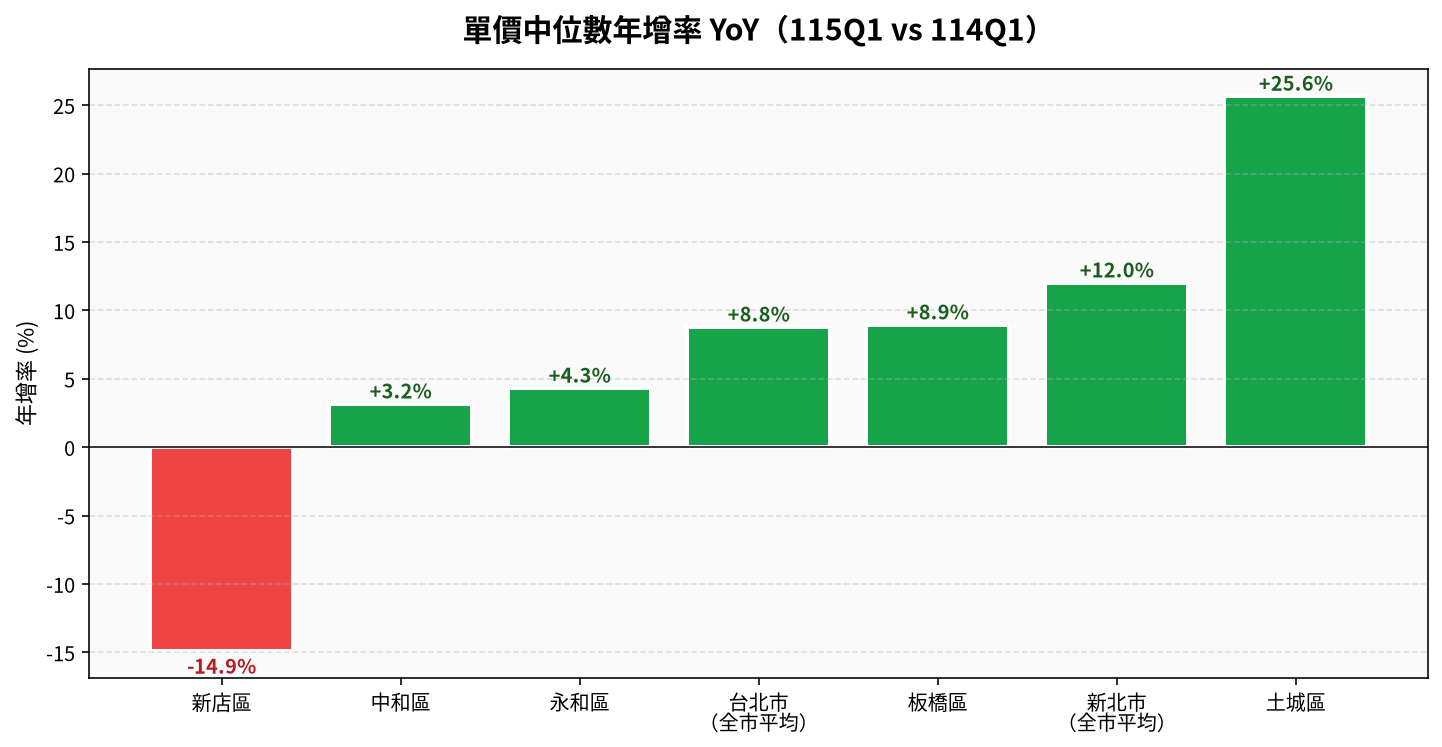
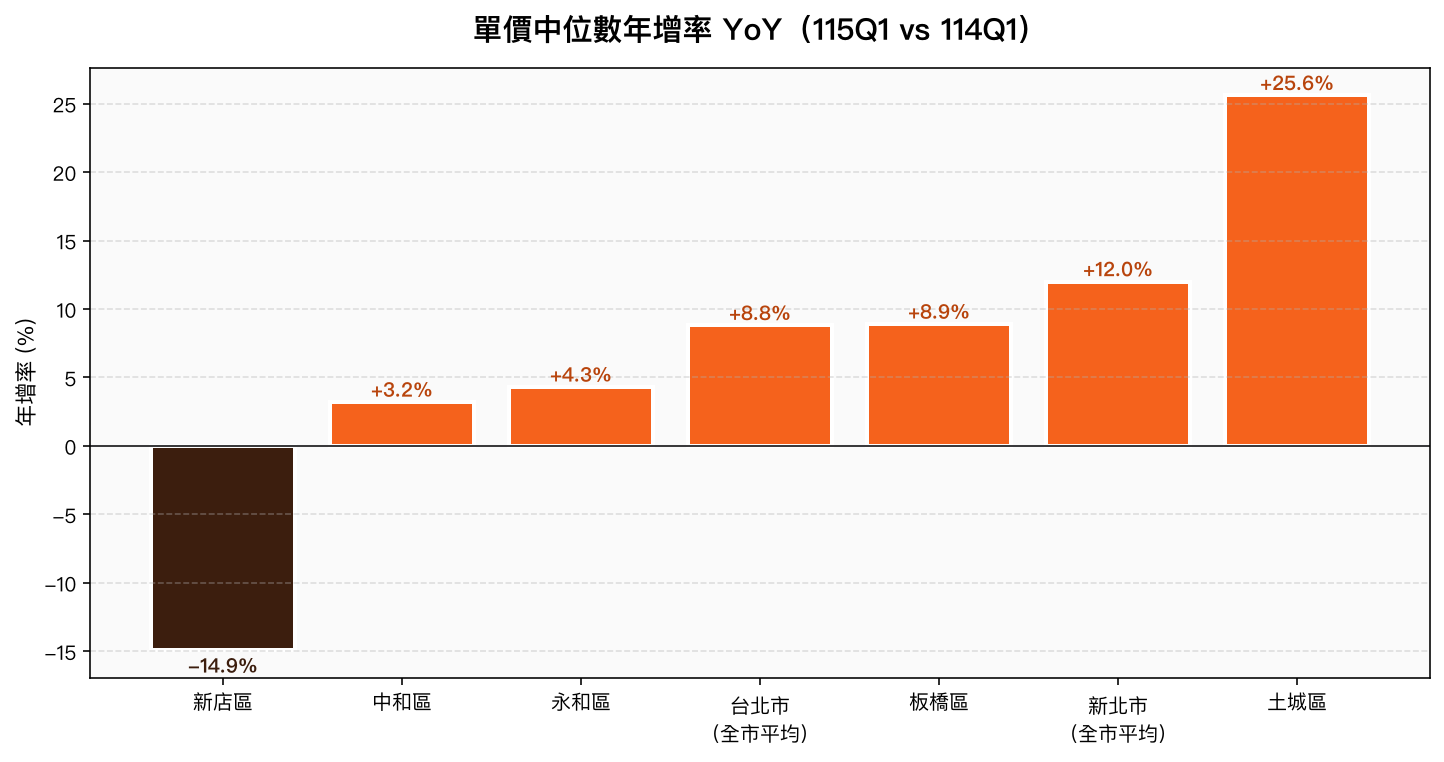
fix(uiux): lvr 年增率圖漲跌柱改米米橘／墨（去紅綠對撞），圖說同步「橘 = 上漲、深棕 = 下跌」；本機以現行 7 個標籤值 stub 重繪，下次 lvr-weekly 以真實資料重產 [nofresh]

diff --git a/lvr-observatory.html b/lvr-observatory.html
@@ -415,8 +415,8 @@ table.rank-table{width:100%;border-collapse:collapse;font-size:14px;color:var(--
   <div class="section-title">近 1 年單價變化（年增率 YoY）</div>
   <div class="chart-card">
     <h3>115Q1 vs 114Q1 單價中位數年增率</h3>
-    <p class="chart-note">綠 = 上漲、紅 = 下跌。新店 -14.9% 看數字大但需結合上方深度解析看（屋齡結構變化所致）。</p>
-    <a class="chart-zoom" href="lvr-charts/chart_yoy_change.png"><picture><source media="(max-width: 640px)" srcset="lvr-charts/chart_yoy_change_m.png" width="823" height="1183"><img src="lvr-charts/chart_yoy_change.png" alt="5 精選區與雙北平均年增率 YoY" width="1442" height="747" loading="lazy" decoding="async"></picture></a>
+    <p class="chart-note">橘 = 上漲、深棕 = 下跌。新店 -14.9% 看數字大但需結合上方深度解析看（屋齡結構變化所致）。</p>
+    <a class="chart-zoom" href="lvr-charts/chart_yoy_change.png"><picture><source media="(max-width: 640px)" srcset="lvr-charts/chart_yoy_change_m.png" width="823" height="1183"><img src="lvr-charts/chart_yoy_change.png" alt="5 精選區與雙北平均年增率 YoY" width="1444" height="762" loading="lazy" decoding="async"></picture></a>
     <p class="chart-zoom-hint">點圖看大圖</p>
   </div>
 

diff --git a/scripts/lvr/make_charts.py b/scripts/lvr/make_charts.py
@@ -57,7 +57,10 @@ def _save(fig, name: str) -> Path:
 MOBILE_W = 4.0
 MOBILE_DPI = 200
 MFS = 13
-YOY_UP, YOY_DOWN = "#16A34A", "#EF4444"  # 與頁面 KPI／排名表的漲跌色一致
+# 漲跌柱色（米米系，2026-09-29 視覺目檢第 23 列）：不用紅綠對撞，改靠明度差區分（橘 × 墨 對比 4.8，色盲也分得開）。
+# 圖檔不能用 CSS 變數，同值寫死：YOY_UP＝--cx-orange、YOY_DOWN＝--cx-ink；數字標籤上漲用 --cx-orange-deep（橘不當小字）、下跌用 --cx-ink。
+YOY_UP, YOY_DOWN = "#F5621C", "#3C1E0E"
+YOY_UP_LABEL, YOY_DOWN_LABEL = "#B8440C", "#3C1E0E"
 
 
 def _save_m(fig, name: str) -> Path:
@@ -98,7 +101,7 @@ def chart_yoy_change(df: pd.DataFrame, mobile: bool = False) -> Path:
     rows.sort(key=lambda x: x[1])
     labels = [r[0] for r in rows]
     values = [r[1] for r in rows]
-    # 柱色依正負：頁面說明「綠 = 上漲、紅 = 下跌」讀者看的是柱子。原本用區域識別色，
+    # 柱色依正負：頁面說明「橘 = 上漲、深棕 = 下跌」讀者看的是柱子。原本用區域識別色，
     # 土城 +25.6% 是紅柱、手機上會讀成下跌（2026-09-29 視覺目檢 G10-08）
     colors = [YOY_UP if v >= 0 else YOY_DOWN for v in values]
 
@@ -113,7 +116,7 @@ def chart_yoy_change(df: pd.DataFrame, mobile: bool = False) -> Path:
             ax.text(val + span * (0.02 if val >= 0 else -0.02), i, f"{val:+.1f}%",
                     ha="left" if val >= 0 else "right", va="center",
                     fontsize=MFS, fontweight="bold",
-                    color="#1B5E20" if val >= 0 else "#B71C1C")
+                    color=YOY_UP_LABEL if val >= 0 else YOY_DOWN_LABEL)
         ax.set_xlim(lo - (span * 0.55 if lo < 0 else 0), hi + (span * 0.6 if hi > 0 else 0))
         ax.axvline(0, color="#3a3a3c", linewidth=1)
         ax.set_title("單價中位數年增率 YoY\n（115Q1 vs 114Q1）",
@@ -129,7 +132,7 @@ def chart_yoy_change(df: pd.DataFrame, mobile: bool = False) -> Path:
         y = val + 0.4 if val >= 0 else val - 0.4
         ax.text(bar.get_x() + bar.get_width() / 2, y, f"{val:+.1f}%",
                 ha="center", va="baseline" if val >= 0 else "top", fontsize=10, fontweight="bold",
-                color="#1B5E20" if val >= 0 else "#B71C1C")
+                color=YOY_UP_LABEL if val >= 0 else YOY_DOWN_LABEL)
     ax.axhline(0, color="#3a3a3c", linewidth=1)
     ax.set_title("單價中位數年增率 YoY（115Q1 vs 114Q1）",
                  fontsize=15, fontweight="bold", pad=14)

diff --git a/scripts/lvr/build_observatory.py b/scripts/lvr/build_observatory.py
@@ -554,7 +554,7 @@ table.rank-table{{width:100%;border-collapse:collapse;font-size:14px;color:var(-
   <div class="section-title">近 1 年單價變化（年增率 YoY）</div>
   <div class="chart-card">
     <h3>115Q1 vs 114Q1 單價中位數年增率</h3>
-    <p class="chart-note">綠 = 上漲、紅 = 下跌。新店 -14.9% 看數字大但需結合上方深度解析看（屋齡結構變化所致）。</p>
+    <p class="chart-note">橘 = 上漲、深棕 = 下跌。新店 -14.9% 看數字大但需結合上方深度解析看（屋齡結構變化所致）。</p>
     {chart_html('chart_yoy_change', '5 精選區與雙北平均年增率 YoY')}
   </div>
 
